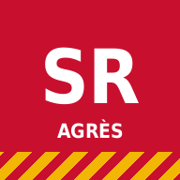
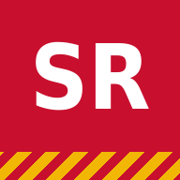
Icône simplifiée : SR seul, plus lisible
Claude-Session: https://claude.ai/code/session_01JTwap7HM2sFispDQ1Ky6Gq

diff --git a/sw.js b/sw.js
@@ -1,4 +1,4 @@
-const C="agres-sr-v1";const A=["./","index.html","manifest.webmanifest","icon-192.png","icon-512.png","apple-touch-icon.png"];
+const C="agres-sr-v2";const A=["./","index.html","manifest.webmanifest","icon-192.png","icon-512.png","apple-touch-icon.png"];
 self.addEventListener("install",e=>{e.waitUntil(caches.open(C).then(c=>c.addAll(A)).then(()=>self.skipWaiting()));});
 self.addEventListener("activate",e=>{e.waitUntil(caches.keys().then(k=>Promise.all(k.filter(x=>x!==C).map(x=>caches.delete(x)))).then(()=>self.clients.claim()));});
 self.addEventListener("fetch",e=>{if(e.request.method!=="GET")return;e.respondWith(fetch(e.request).then(r=>{const cp=r.clone();caches.open(C).then(c=>c.put(e.request,cp)).catch(()=>{});return r;}).catch(()=>caches.match(e.request).then(r=>r||caches.match("index.html"))));});
